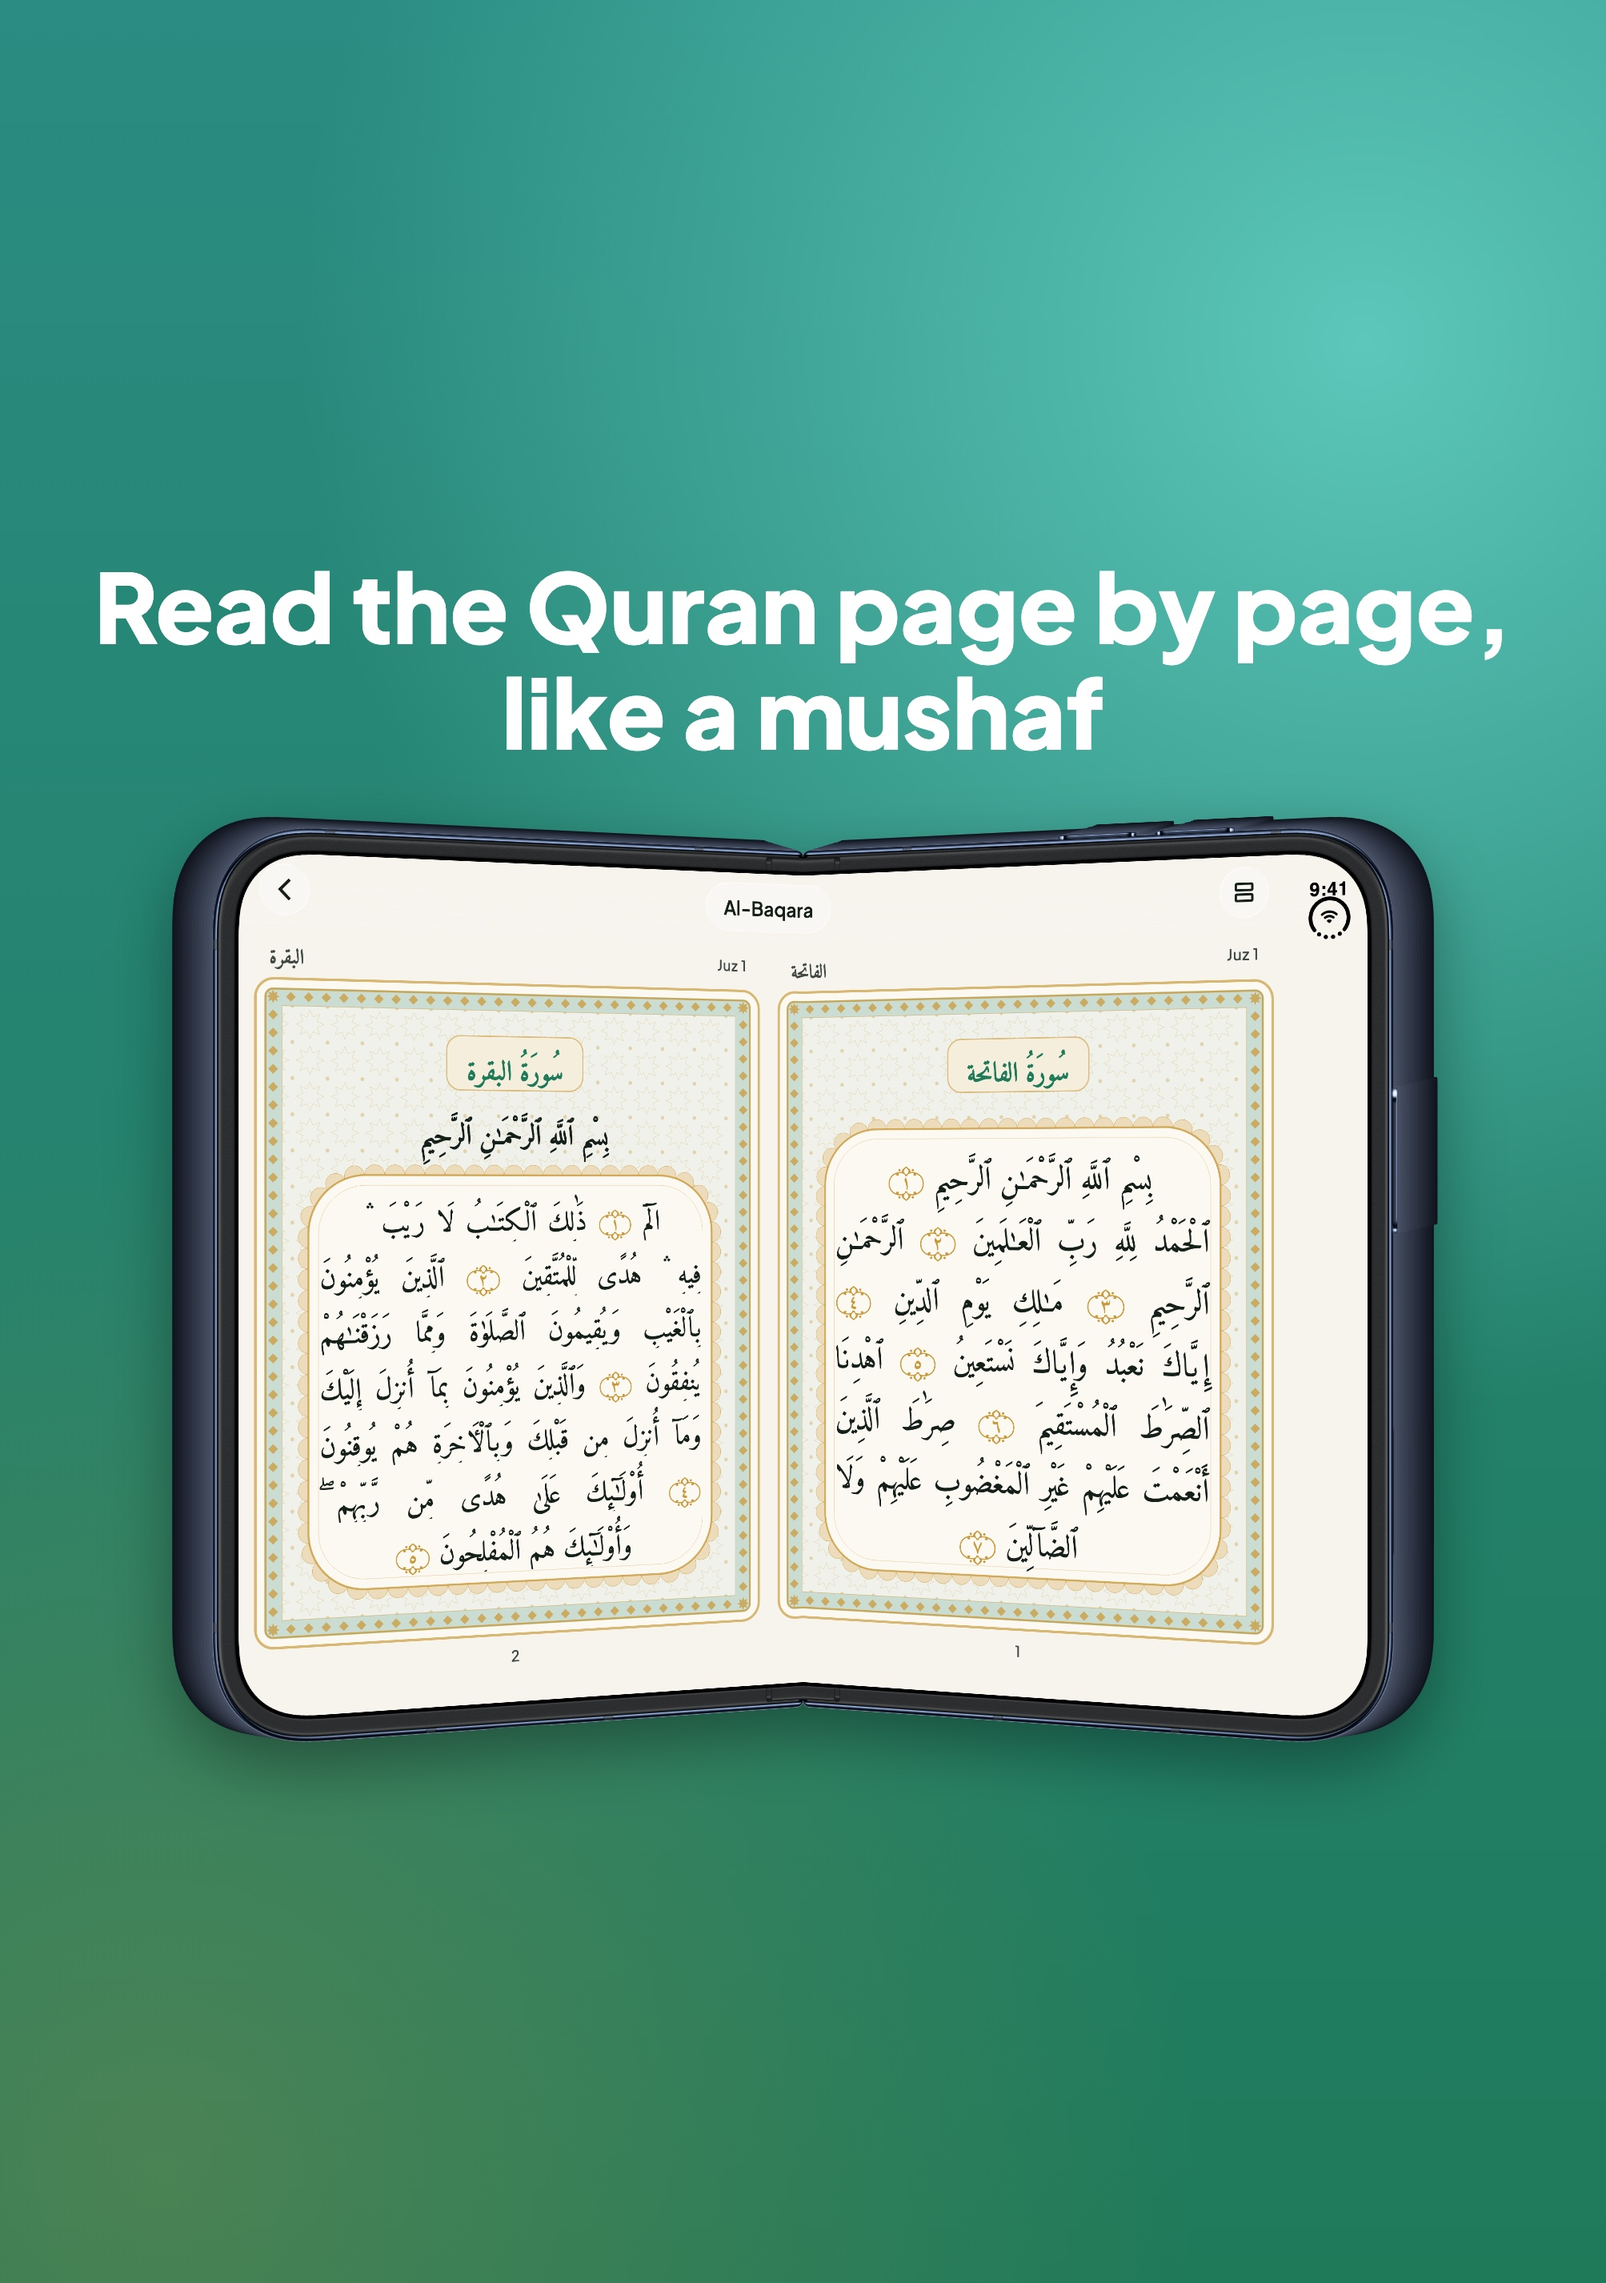
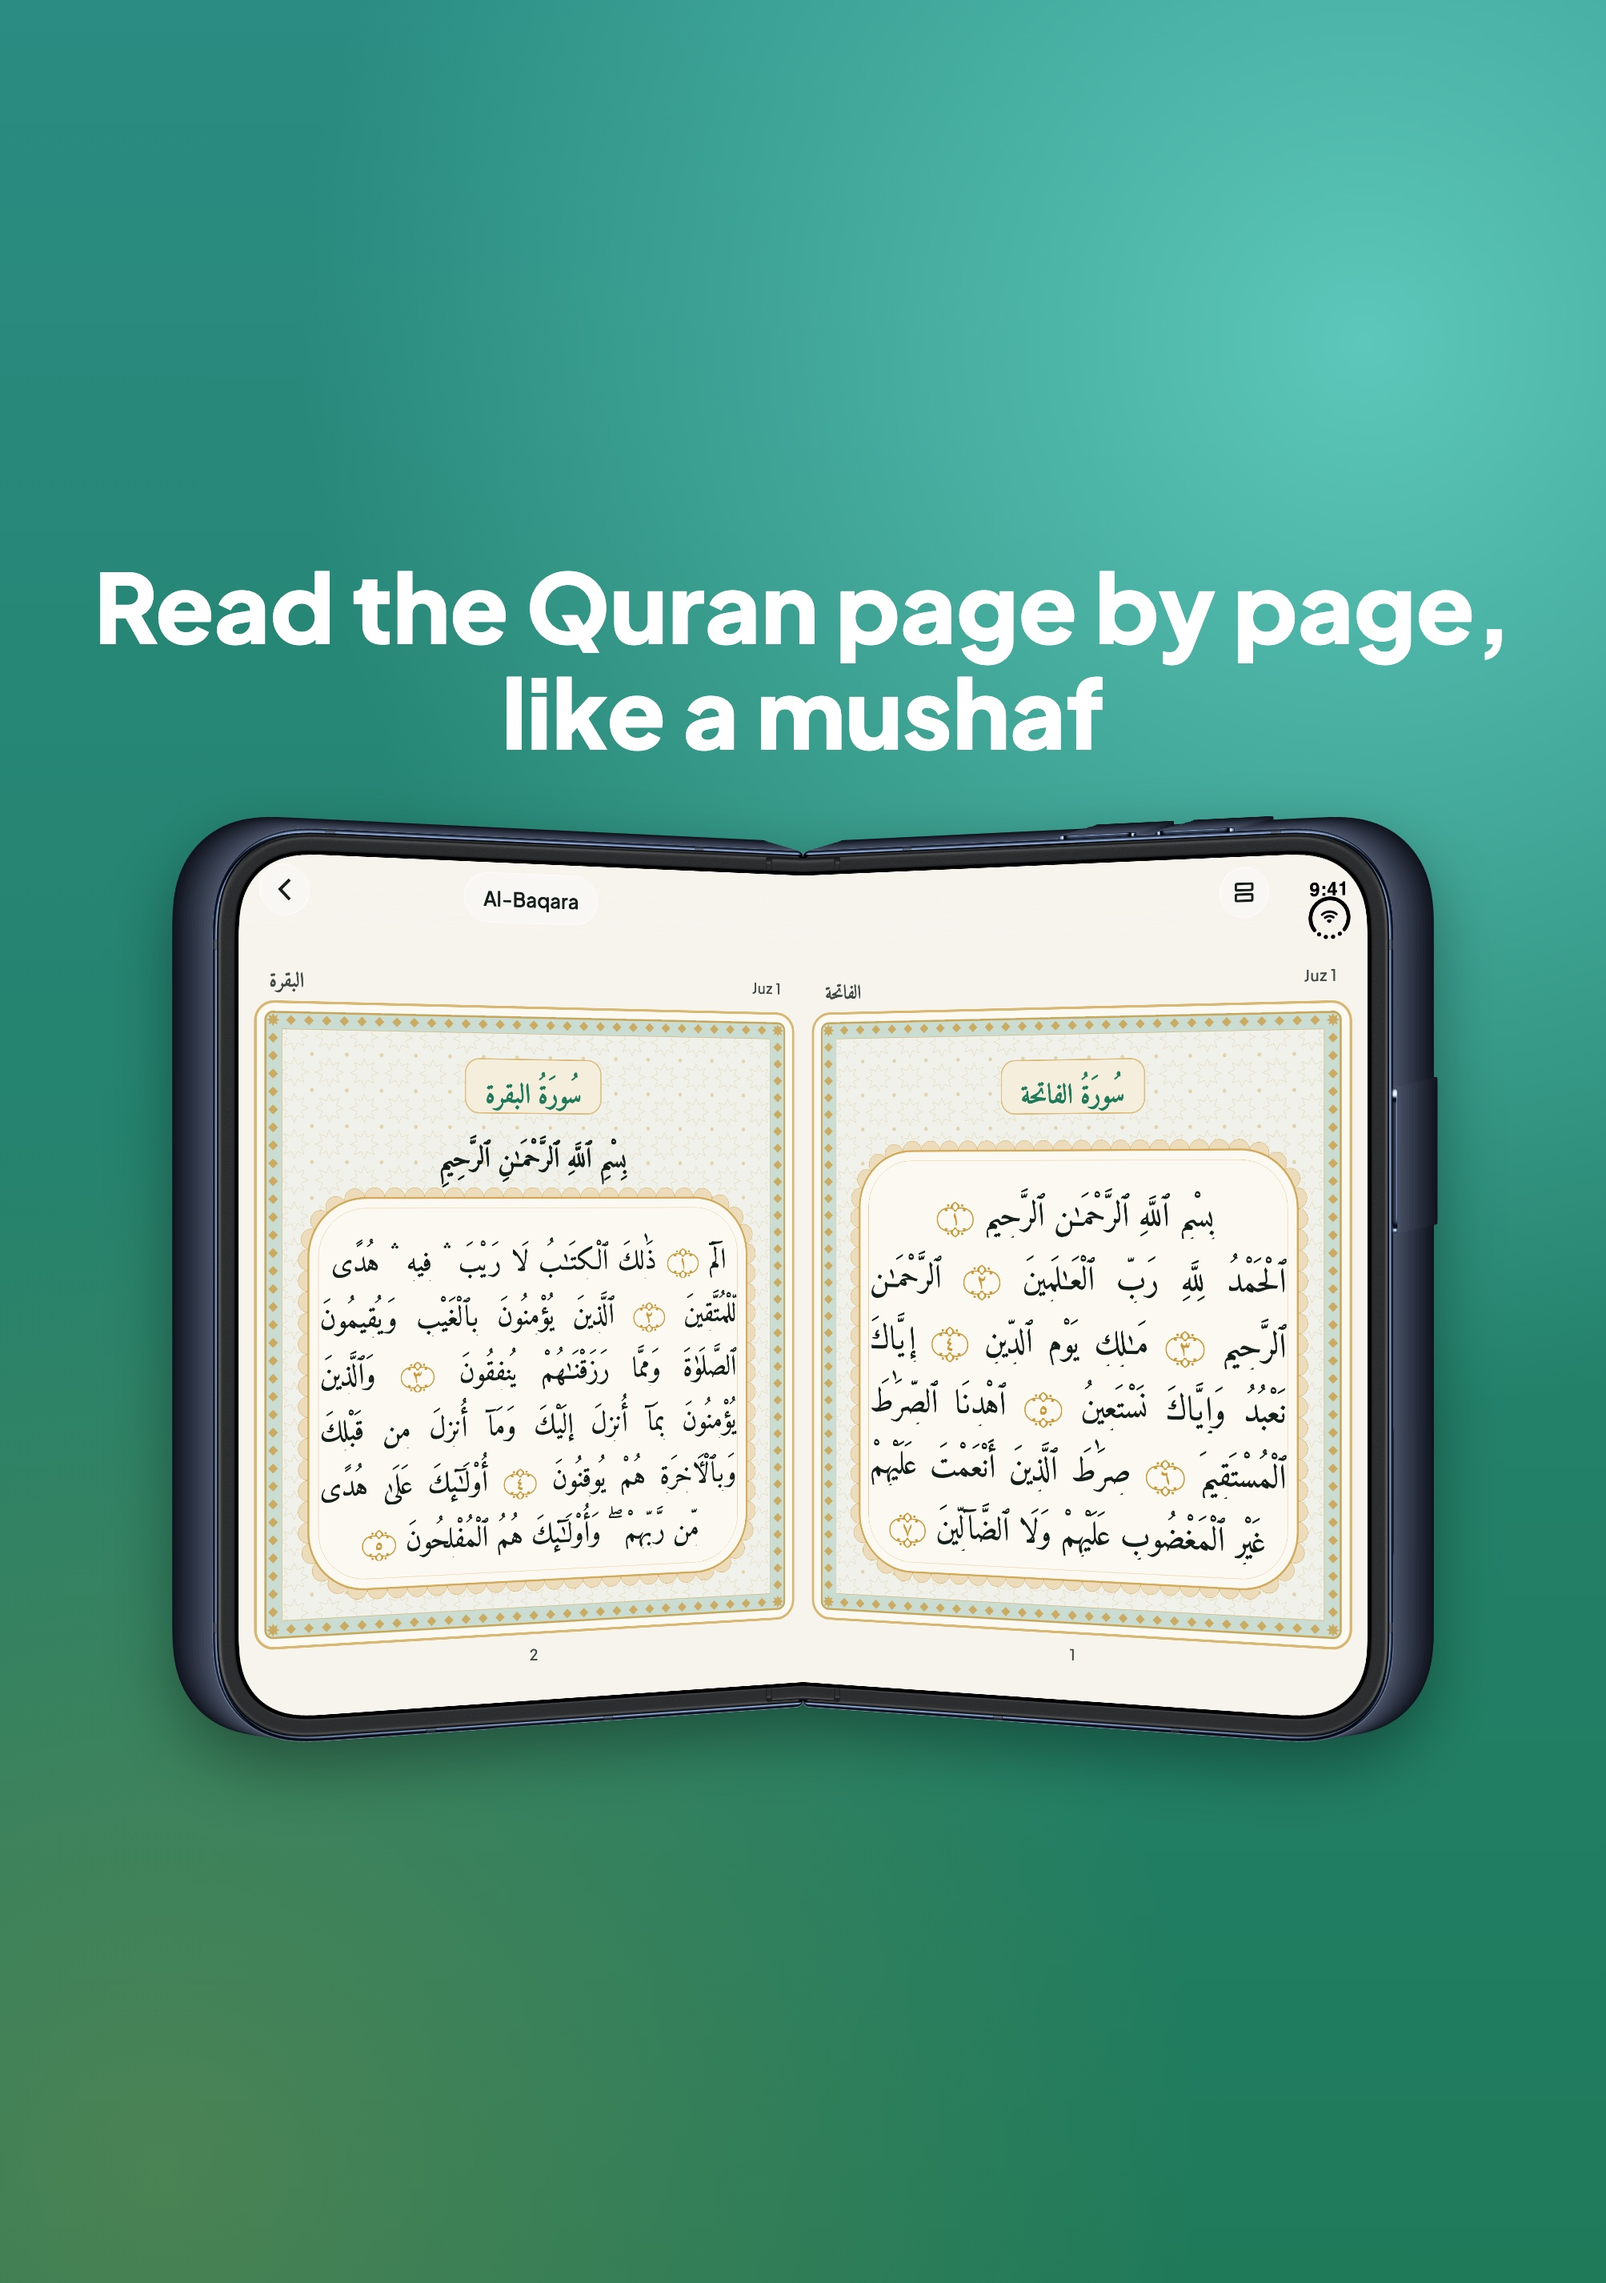
fix(quran): fill the half-folded iPhone Duo with the mushaf pages
Held like a book, the spine lies on the fold and each page fills its
half, running under the side bar's empty part below the status items.
The top bar's title stays on the back button's half.

Changed region(s): [[0.1545, 0.4055, 0.865, 0.7175], [0.4634, 0.3743, 0.4943, 0.4055]]

diff --git a/lib/core/design/liquid_glass.dart b/lib/core/design/liquid_glass.dart
@@ -1,5 +1,5 @@
 import 'dart:math' as math;
-import 'dart:ui' show lerpDouble;
+import 'dart:ui' show DisplayFeatureState, lerpDouble;
 
 import 'package:material_ui/material_ui.dart';
 import 'package:liquid_glass_easy/liquid_glass_easy.dart';
@@ -257,6 +257,24 @@ class GlassNavBar extends StatelessWidget {
       );
     });
   }
+}
+
+/// The fold or hinge running down the screen, in the view's coordinates, or
+/// null when there is none. Like [DisplayFeatureSubScreen], a fold only
+/// counts while the screen is half open, held like a book; flat, it is just
+/// part of the screen.
+Rect? verticalFoldOf(BuildContext ctx) {
+  final size = MediaQuery.sizeOf(ctx);
+  for (final feature in MediaQuery.displayFeaturesOf(ctx)) {
+    final bounds = feature.bounds;
+    final splits =
+        bounds.shortestSide > 0 ||
+        feature.state == DisplayFeatureState.postureHalfOpened;
+    if (splits && bounds.top <= 0 && bounds.bottom >= size.height) {
+      return bounds;
+    }
+  }
+  return null;
 }
 
 /// Keeps [child] clear of the system's vertical bar on iPhone Duo (see
@@ -723,6 +741,11 @@ class GlassTopBar extends StatelessWidget implements PreferredSizeWidget {
     final titleStyle = theme.textTheme.titleMedium?.copyWith(
       color: theme.colorScheme.onSurface,
     );
+    // Half folded like a book, the title stays off the fold, over the half
+    // that holds the back button.
+    final fold = verticalFoldOf(ctx);
+    final leftInset = MediaQuery.paddingOf(ctx).left;
+    final rtl = Directionality.of(ctx) == TextDirection.rtl;
     return SizedBox(
       height: kToolbarHeight + MediaQuery.of(ctx).padding.top,
       child: Stack(
@@ -740,16 +763,24 @@ class GlassTopBar extends StatelessWidget implements PreferredSizeWidget {
             bottom: false,
             child: LayoutBuilder(
               builder: (ctx, box) {
+                final otherHalf = fold == null
+                    ? EdgeInsets.zero
+                    : rtl
+                    ? EdgeInsets.only(left: fold.right - leftInset)
+                    : EdgeInsets.only(
+                        right: box.maxWidth - (fold.left - leftInset),
+                      );
                 final (:padding, :centered) = _titlePlacement(
                   ctx,
                   title,
-                  box.maxWidth,
+                  box.maxWidth - otherHalf.horizontal,
                   style: titleStyle,
                   leadingWidth: leadingWidth,
-                  trailingWidth: trailingWidth,
+                  // The actions sit over the other half.
+                  trailingWidth: fold == null ? trailingWidth : 0,
                 );
                 return Padding(
-                  padding: padding,
+                  padding: otherHalf.add(padding),
                   child: Align(
                     alignment: centered
                         ? Alignment.center

diff --git a/lib/features/quran/quran_mushaf.dart b/lib/features/quran/quran_mushaf.dart
@@ -7,6 +7,7 @@ import 'package:flutter_riverpod/flutter_riverpod.dart';
 import 'package:material_ui/material_ui.dart';
 
 import '../../core/constants/app_colors.dart';
+import '../../core/design/liquid_glass.dart';
 import '../../core/theme/app_tokens.dart';
 import '../../generated/l10n/app_localizations.dart';
 import 'quran.dart';
@@ -46,6 +47,10 @@ class QuranMushafView extends StatefulWidget {
 
   /// Below this width two pages would be too small to read.
   static const spreadMinWidth = 600.0;
+
+  /// How far down iPhone Duo's side bar its status items reach (the clock
+  /// over the battery ring), measured on the simulator.
+  static const _sideBarStatusBottom = 74.0;
 
   /// Whether a window of [size] shows two facing pages.
   static bool showsSpread(Size size) =>
@@ -167,12 +172,27 @@ class _QuranMushafViewState extends State<QuranMushafView>
   Widget build(BuildContext ctx) {
     final l10n = AppLocalizations.of(ctx);
     final media = MediaQuery.of(ctx);
+    // iPhone Duo's side bar holds the status items only at its top, so the
+    // pages start below them and run under the bar's empty rest.
+    final sideBar = GlassNavBar.railSideOf(ctx) != null;
+    var left = sideBar ? 0.0 : media.padding.left;
+    var right = sideBar ? 0.0 : media.padding.right;
+    // Held like a book, the spine lies along the fold, each page on its own
+    // half, with equal margins wherever the insets are uneven.
+    final fold = verticalFoldOf(ctx);
+    if (fold != null && media.size.width > media.size.height) {
+      final half = min(fold.left - left, media.size.width - right - fold.right);
+      left = fold.left - half;
+      right = media.size.width - fold.right - half;
+    }
     return Padding(
       padding: EdgeInsets.only(
-        top: widget.topInset,
+        top: sideBar
+            ? max(widget.topInset, QuranMushafView._sideBarStatusBottom)
+            : widget.topInset,
         bottom: media.padding.bottom,
-        left: media.padding.left,
-        right: media.padding.right,
+        left: left,
+        right: right,
       ),
       child: LayoutBuilder(
         builder: (ctx, constraints) {

diff --git a/test/liquid_glass_test.dart b/test/liquid_glass_test.dart
@@ -1,3 +1,5 @@
+import 'dart:ui' show DisplayFeature, DisplayFeatureState, DisplayFeatureType;
+
 import 'package:bedug/core/design/liquid_glass.dart';
 import 'package:bedug/core/theme/app_theme.dart';
 import 'package:bedug/core/theme/app_theme_scope.dart';
@@ -635,4 +637,34 @@ void main() {
       );
     }
   }
+
+  testWidgets('a fold only splits the screen while half open', (tester) async {
+    Rect? found;
+    Future<void> pumpFold(DisplayFeatureState state) {
+      tester.view.displayFeatures = [
+        DisplayFeature(
+          bounds: const Rect.fromLTWH(400, 0, 0, 600),
+          type: DisplayFeatureType.fold,
+          state: state,
+        ),
+      ];
+      return tester.pumpWidget(
+        Builder(
+          builder: (ctx) {
+            found = verticalFoldOf(ctx);
+            return const SizedBox();
+          },
+        ),
+      );
+    }
+
+    tester.view.physicalSize = const Size(800, 600);
+    tester.view.devicePixelRatio = 1;
+    addTearDown(tester.view.reset);
+
+    await pumpFold(DisplayFeatureState.postureHalfOpened);
+    expect(found, const Rect.fromLTWH(400, 0, 0, 600));
+    await pumpFold(DisplayFeatureState.postureFlat);
+    expect(found, isNull);
+  });
 }
